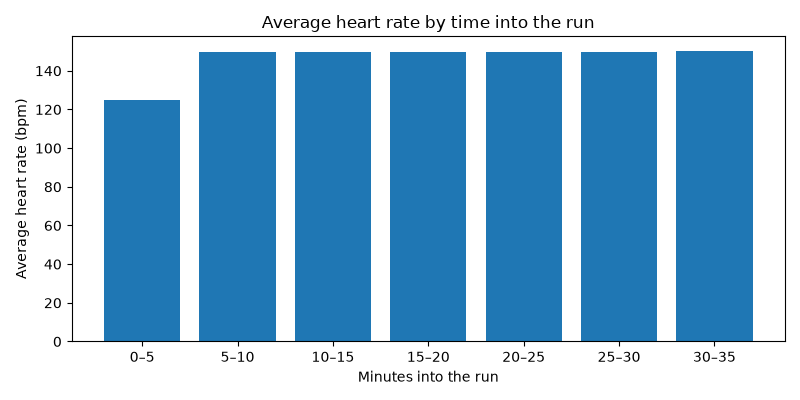
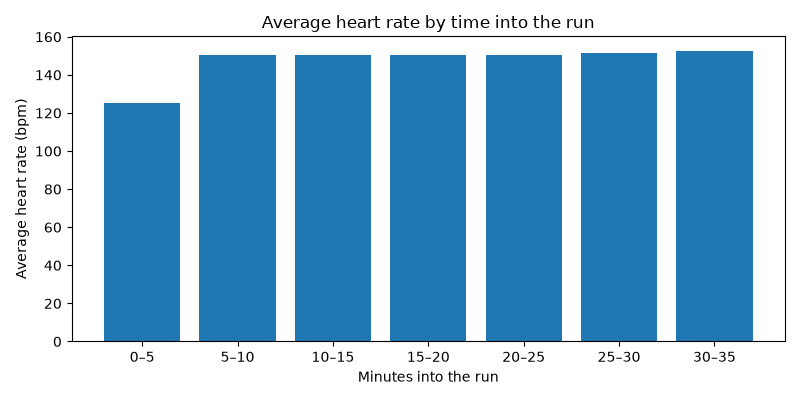
Correct the running example to 25 runs, and regenerate the two charts that showed 30
Randall spotted docs/running.md still reading "30 consecutive daily ~5 km runs" after the sample
databases were regenerated for schema version 2. The database has 25 runs, and had for the whole
of that commit -- the text and two of the charts were left describing the old one.

WHY 25 AND NOT 30, since the number going DOWN looks like data loss. edgar's generator is fully
deterministic (days=30, start_date=2026-08-01, seed=970), and `days` is a CALENDAR SPAN, not a run
count -- Sundays within it are rest days (edgar Fossil ticket db1816171a). A 30-day window from
2026-08-01 contains exactly five Sundays, so 25 runs is the correct output. The previously
published database predated that rest-day behaviour and had never been regenerated, so 30 was the
stale figure, not 25.

"Consecutive" was therefore wrong twice over: not thirty, and not consecutive.

TEXT, now matching the database rather than the old one:
  - docs/running.md: the example-database paragraph, and three references to "all 30 runs"
    including one image alt text.
  - docs/example-databases.md: the Running row, including its date range -- Aug 1-30 is wrong
    because August 30 IS one of the five Sundays. It is Aug 1-29.

The average figures were checked rather than assumed and are UNCHANGED: 29.2 min and 5.8 min/km.
That follows from the generator being deterministic -- the same per-run distribution, five fewer
days of it. reports/running_report.py confirms: 25 runs, 125.7 km, 12.2 h, 5.81 min/km average,
[…]

diff --git a/docs/example-databases.md b/docs/example-databases.md
@@ -6,7 +6,7 @@ own required just to get started.
 
 | | Sport | Contents | File |
 |---|---|---|---|
-| <img src="icon-running.svg" width="56" alt=""> | Running | 30 consecutive daily ~5&nbsp;km runs along a real public route<br>Aug 1–30, 2026 · Ottawa River Pathway, Ottawa ON<br>Avg 29.2 min · 5.8 min/km pace | [`cordelia-sample-running.sqlite`](../example-data/cordelia-sample-running.sqlite) |
+| <img src="icon-running.svg" width="56" alt=""> | Running | 25 daily ~5&nbsp;km runs along a real public route, Sundays rested<br>Aug 1–29, 2026 · Ottawa River Pathway, Ottawa ON<br>Avg 29.2 min · 5.8 min/km pace | [`cordelia-sample-running.sqlite`](../example-data/cordelia-sample-running.sqlite) |
 | <img src="icon-cycling.svg" width="56" alt=""> | Cycling | 4 rides along the real Tour de Victoria 80&nbsp;km road-cycling route<br>Sep 5–26, 2026 · Victoria, BC<br>Avg 204.5 min (~3h25m) · 22.6 km/h avg speed | [`cordelia-sample-cycling.sqlite`](../example-data/cordelia-sample-cycling.sqlite) |
 | <img src="icon-kayaking.svg" width="56" alt=""> | Kayaking | 8 out-and-back paddles in the Gulf Islands<br>Sep 4–27, 2026 · Mayne Island, BC<br>Avg 91.6 min (~1h32m) · 45.7&nbsp;km total (~5.7&nbsp;km/paddle) | [`cordelia-sample-kayaking.sqlite`](../example-data/cordelia-sample-kayaking.sqlite) |
 | <img src="icon-strength-training.svg" width="56" alt=""> | Strength training | 8 sessions of work sets and rest periods — no GPS, no distance or speed<br>Sep 1–24, 2026 · indoor (no GPS)<br>Avg 51.3 min · 51 work sets + 50 rest periods/session | [`cordelia-sample-strength-training.sqlite`](../example-data/cordelia-sample-strength-training.sqlite) |

diff --git a/docs/running.md b/docs/running.md
@@ -6,8 +6,8 @@ New to Python, or don't have dependencies installed yet? See [setup](setup.md) f
 
 ## Example database
 
-30 consecutive daily ~5&nbsp;km runs along a real public route, fabricated (no real person,
-device, or activity represented). Download `cordelia-sample-running.sqlite`, with its SHA-256
+25 daily ~5&nbsp;km runs along a real public route — one a day across August 1–29, 2026, with
+Sundays as rest days — fabricated (no real person, device, or activity represented). Download `cordelia-sample-running.sqlite`, with its SHA-256
 checksum and GPG signature, from [the downloads page](example-databases.md).
 
 ```bash
@@ -39,11 +39,11 @@ Best (fastest) pace: 5.20 min/km
 Average heart rate:  145 bpm
 ```
 
-A pace trend across all 30 runs:
+A pace trend across all 25 runs:
 
-![Pace trend across 30 runs](running-pace-trend.png)
+![Pace trend across 25 runs](running-pace-trend.png)
 
-Average heart rate in five-minute buckets of elapsed time, across all 30 runs:
+Average heart rate in five-minute buckets of elapsed time, across all 25 runs:
 
 ![Average heart rate by five-minute bucket into the run](running-heart-rate-by-bucket.png)
 
